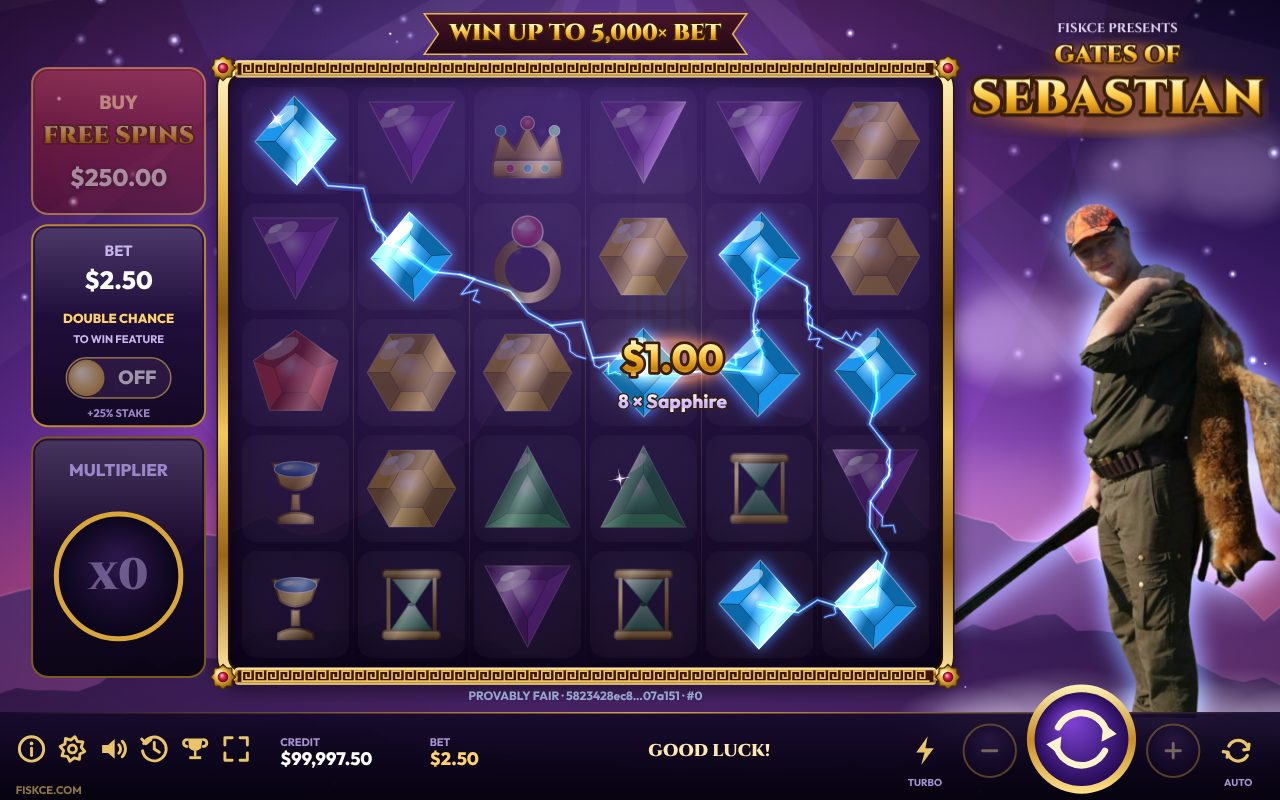
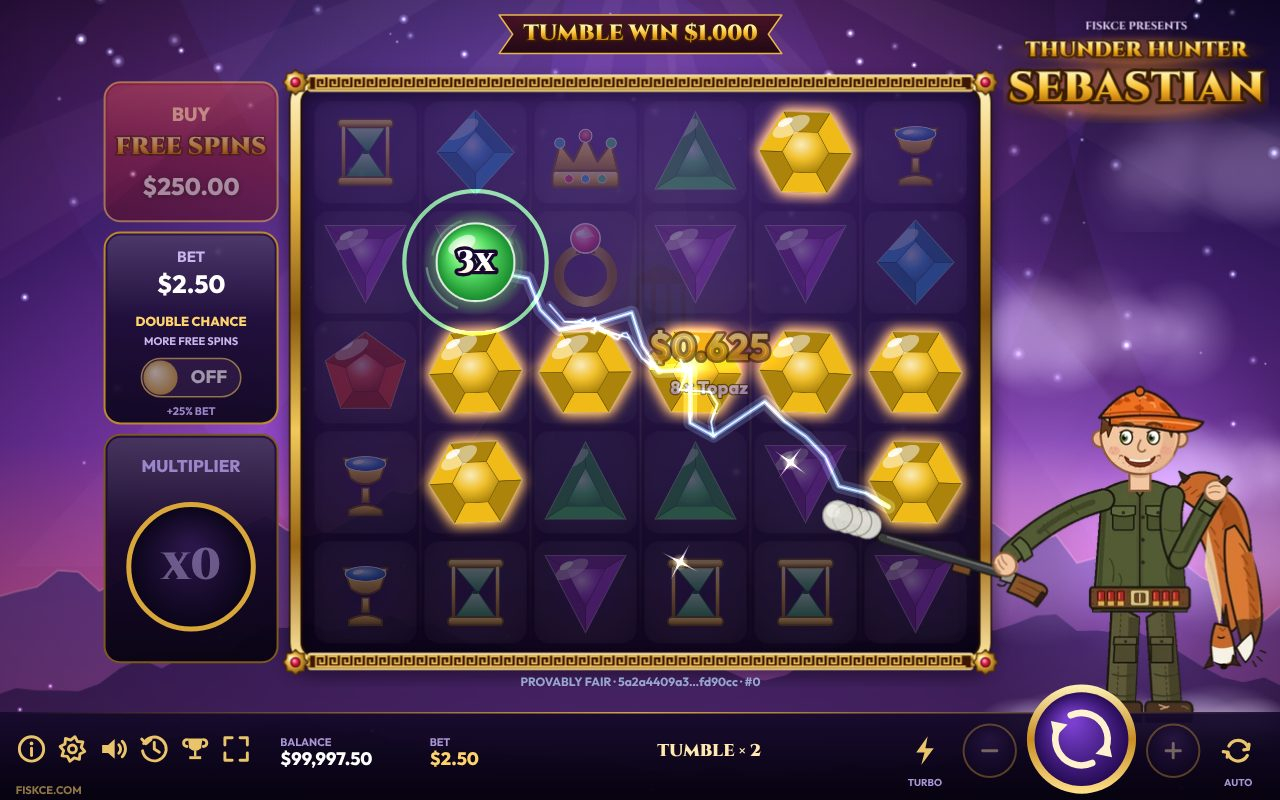
v9 polish: hidden controls stay hidden, short-screen splash and cards, replay card closes while playing
- [hidden] always wins over a button's own display rule (the demo's reset
  button showed in Stake play).
- 400x225: the splash keeps Sebastian beside the title instead of above
  it, and cards tighten so the replay button needs no scrolling.
- Play replay closes the replay card before the round plays.
- Counting animations use the decimals of the amount they count to.
- Unit tests: social wording has no restricted words; the published math
  (index, lookup tables, a sample of books) matches the engine and rules.
- README for v9, new screenshots with the new Sebastian, manifest renamed.

Claude-Session: https://claude.ai/code/session_01WQkQSFSCuMsctKqrKr77hZ

diff --git a/tools/test.js b/tools/test.js
@@ -142,6 +142,52 @@ ok('a tampered book event is rejected', () => {
   ];
   for (const f of bad) { const e = JSON.parse(JSON.stringify(good)); f(e); assert.throws(() => E.expandSpin(e, 3)); }
 });
+// ---- Stake: wording and the published math ----
+function loadStrings(search) {
+  const vm = require('vm'), fs = require('fs');
+  const sandbox = { window: {}, location: { search }, URLSearchParams, document: { documentElement: { classList: { toggle() {} } }, querySelectorAll: () => [] } };
+  vm.runInNewContext(fs.readFileSync(path.join(__dirname, '..', 'js', 'strings.js'), 'utf8'), sandbox);
+  return sandbox.window.GOS_STR;
+}
+ok('social casino wording has none of the restricted words', () => {
+  const STR = loadStrings('?social=true');
+  assert.ok(STR.social);
+  const src = require('fs').readFileSync(path.join(__dirname, '..', 'js', 'strings.js'), 'utf8');
+  const keys = [...src.matchAll(/^\s{4}(\w+):/gm)].map(m => m[1]).concat([...src.matchAll(/,\s(\w+):\s[\['\x27]/g)].map(m => m[1]));
+  const re = new RegExp('\\b(' + STR.RESTRICTED.filter(w => !w.includes(' ')).join('|') + ')\\b|win feature', 'i');
+  for (const k of new Set(keys)) {
+    const t = STR.T(k, { v: '1.00 SC', a: 1, b: 2, n: 3, x: '5,000×' }).replace(/<[^>]+>/g, '');
+    assert.ok(!re.test(t), `social "${k}": ${t}`);
+  }
+  assert.ok(loadStrings('?currency=XSC').social, 'a social currency turns social wording on');
+  assert.ok(!loadStrings('').social);
+});
+ok('the published Stake math matches the engine and the rules', () => {
+  const fs = require('fs'), zlib = require('zlib'), dir = path.join(__dirname, '..', 'math');
+  if (!fs.existsSync(path.join(dir, 'index.json'))) { console.log('      (no math/ export; skipped)'); return; }
+  const index = JSON.parse(fs.readFileSync(path.join(dir, 'index.json'), 'utf8'));
+  const cost = { base: 1, ante: E.ANTE_COST, bonus: E.BUY_COST_X };
+  const info = (() => { const w = {}; require('vm').runInNewContext(fs.readFileSync(path.join(__dirname, '..', 'js', 'math-info.js'), 'utf8'), { window: w }); return w.GOS_MATH; })();
+  assert.deepStrictEqual(index.modes.map(m => m.name).sort(), ['ante', 'base', 'bonus']);
+  for (const m of index.modes) {
+    assert.strictEqual(m.cost, cost[m.name], m.name + ' cost');
+    let W = 0n, P = 0n, max = 0;
+    for (const line of fs.readFileSync(path.join(dir, m.weights), 'utf8').trim().split('\n')) {
+      const [, w, pm] = line.split(',').map(BigInt); W += w; P += w * pm; if (Number(pm) > max) max = Number(pm);
+    }
+    const rtp = Number((P * 100000000n) / (W * BigInt(Math.round(m.cost * 100)))) / 1e6;     // percent
+    assert.ok(Math.abs(rtp - 96.5) < 0.001, m.name + ' RTP ' + rtp);
+    assert.strictEqual(max, E.MAX_WIN_X * 100, m.name + ' max win');
+    assert.strictEqual(info.modes[m.name].rtp, 96.5); assert.strictEqual(info.modes[m.name].cost, m.cost);
+    // a sample of books replays through the engine and adds up
+    const lines = zlib.zstdDecompressSync(fs.readFileSync(path.join(dir, m.events))).toString().trim().split('\n');
+    for (let i = 0; i < lines.length; i += Math.max(1, Math.floor(lines.length / 400))) {
+      const b = JSON.parse(lines[i]); let persistent = 0, sum = 0;
+      for (const e of b.events) if (e.type === 'spin') { const o = E.expandSpin(e, e.mode === 'fs' ? persistent : 0); if (e.mode === 'fs') persistent = o.ev.persistentAfter; sum += e.win; }
+      assert.strictEqual(sum, b.payoutMultiplier, m.name + ' book ' + b.id);
+    }
+  }
+});
 ok('every asset the game loads exists and is precached by the service worker', () => {
   const fs = require('fs'), root = path.join(__dirname, '..');
   const read = f => fs.readFileSync(path.join(root, f), 'utf8');

diff --git a/css/style.css b/css/style.css
@@ -38,6 +38,9 @@ body { font-family: var(--ui); color: var(--text); -webkit-tap-highlight-color: 
 .title-sm { font-size: clamp(20px, 4vw, 40px); letter-spacing: .12em; }
 .title { font-size: clamp(36px, 8.5vw, 92px); letter-spacing: .04em; }
 
+/* the hidden attribute always wins (buttons here set their own display) */
+[hidden] { display: none !important; }
+
 /* ---------- "Only on Stake" preroll (above everything while it plays) ---------- */
 /* the clip covers the screen when the text stays in view; otherwise (narrow
    screens) a blurred live copy of it fills around it. preroll.js sizes it. */
@@ -81,7 +84,7 @@ body { font-family: var(--ui); color: var(--text); -webkit-tap-highlight-color: 
 #splash.show { opacity: 1; pointer-events: auto; }
 #splash.leaving { opacity: 0; pointer-events: none; transform: scale(1.04); transition: opacity .6s ease, transform .6s ease; }
 .splash-inner { display: flex; align-items: center; gap: clamp(8px, 3vw, 40px); max-width: 1100px; width: 100%; }
-.splash-seb { height: min(72vh, 620px); width: auto; flex: none; filter: drop-shadow(0 0 22px rgba(127, 212, 255, .55)); animation: float 4s ease-in-out infinite; }
+.splash-seb { height: min(72vh, 560px); width: auto; flex: none; filter: drop-shadow(0 0 22px rgba(127, 212, 255, .55)); animation: float 4s ease-in-out infinite; }
 .splash-copy { flex: 1; text-align: center; }
 .splash-copy h1 { margin: 6px 0 22px; }
 .features { display: grid; grid-template-columns: repeat(3, 1fr); gap: 12px; margin-bottom: 26px; }
@@ -209,8 +212,9 @@ table.history { width: 100%; border-collapse: collapse; font-size: 13px; }
 /* very short screens (Stake checks 400x225): the splash fits without scrolling */
 @media (max-height: 420px) and (min-aspect-ratio: 1/1) {
   #splash { overflow: hidden; align-items: center; padding: 6px 12px; }
+  .splash-inner { flex-direction: row; gap: 12px; }
   .features { display: none; }
-  .splash-seb { height: 80vh; }
+  .splash-seb { height: 76vh; }
   .presents { font-size: 10px; }
   .title-sm { font-size: clamp(12px, 6.5vh, 22px); }
   .title { font-size: clamp(22px, 14vh, 48px); }
@@ -219,6 +223,11 @@ table.history { width: 100%; border-collapse: collapse; font-size: 13px; }
   .fine { font-size: 10px; margin-top: 6px; }
   .card { padding: 12px 12px 10px; max-height: 94vh; }
   .card h2 { font-size: 17px; margin-bottom: 6px; }
+  .card p { font-size: 13px; margin: 4px 0; }
+  .facts { font-size: 12px; } .facts div { padding: 2px 0; }
+  .replay-facts { margin: 2px 0 6px; }
+  button.primary, button.ghost { margin-top: 8px; padding: 8px 12px; }
+  .btn-row button.primary, .btn-row button.ghost { margin-top: 6px; }
 }
 
 /* rules: modes with their RTP, the controls guide; the replay card */

diff --git a/js/game.js b/js/game.js
@@ -567,7 +567,7 @@
   let replayData = null;
   Game.startReplay = async () => {
     if (S.busy || !replayData) return;
-    G.UI.closeAll();
+    G.UI.closeAll(true);
     // a fresh board and fresh counters every time
     Object.assign(S, { inFS: false, fsLeft: 0, fsPlayed: 0, fsTotal: 0, fsAward: 0, persistent: 0, fsMilestone: 0, roundWin: 0,
       winDisplay: 0, tumbleWin: 0, tumbleShown: 0, spinMult: 0, moodTarget: 0 });

diff --git a/tools/build-sebastian.py b/tools/build-sebastian.py
@@ -63,13 +63,13 @@ def sheet(clip, name):
 
 def splash():
     size, fr = frames('sebastian_idle.gif')
-    # crop to the union of the idle frames, 320 px tall
+    # crop to the union of the idle frames, 480 px tall
     boxes = [img.getchannel('A').getbbox() for img, _ in fr]
     u = (min(b[0] for b in boxes), min(b[1] for b in boxes), max(b[2] for b in boxes), max(b[3] for b in boxes))
-    k = 320 / (u[3] - u[1])
-    imgs = [img.crop(u).resize((round((u[2] - u[0]) * k), 320), Image.LANCZOS) for img, _ in fr]
+    k = 480 / (u[3] - u[1])
+    imgs = [img.crop(u).resize((round((u[2] - u[0]) * k), 480), Image.LANCZOS) for img, _ in fr]
     imgs[0].save(os.path.join(ROOT, 'assets', 'sebastian', 'splash.webp'), 'WEBP', save_all=True, append_images=imgs[1:],
-                 duration=[d for _, d in fr], loop=0, quality=78, method=6)
+                 duration=[d for _, d in fr], loop=0, quality=72, method=6)
     print('splash: %d KB' % (os.path.getsize(os.path.join(ROOT, 'assets', 'sebastian', 'splash.webp')) // 1024))
 
 size, idle = sheet('idle', 'idle.webp')

diff --git a/README.md b/README.md
@@ -1,10 +1,15 @@
-# Gates of Sebastian ⚡
+# Thunder Hunter Sebastian ⚡
 
-A Gates of Olympus–style tumbling slot (v8). The game opens with the "Only on Stake" sting. Sebastian stands on a cloud above Olympus and fires multiplier orbs from his shotgun. Everything is drawn on a single HTML5 canvas, with no build step and no dependencies. It installs as an app and plays offline.
+A tumbling, pay-anywhere slot (v9, formerly *Gates of Sebastian*). Sebastian the hunter stands on a cloud, shotgun in one hand and his fox in the other, and fires multiplier orbs into the board. Everything is drawn on a single HTML5 canvas, with no build step and no dependencies.
+
+It runs two ways:
+
+- **Demo** (no URL parameters, as on fiskce.com): a local balance, outcomes from a provably-fair random stream, installable and playable offline.
+- **Stake Engine** (`?sessionID=…&rgs_url=…`): every round comes from Stake's RGS, played from the math files this repo exports. Bet replays work too (`?replay=true…`).
 
 ![Base game: lightning links a winning cluster](docs/base-game.jpg)
 ![Free spins: the storm grows with the multiplier](docs/free-spins.jpg)
-<img src="docs/phone.jpg" alt="Phone: Sebastian cuts in on a Mega Win" width="260">
+<img src="docs/phone.jpg" alt="Phone: Sebastian fires over the board" width="260">
 
 ## Play
 
@@ -16,28 +21,73 @@ python3 -m http.server 8000      # then visit http://localhost:8000
 
 Opening `index.html` straight from disk also works, but the browser then blocks the fonts and sound files, so you get fallback fonts and synthesized sound. Offline/install support also needs it to be served (https or localhost).
 
-**Controls:** Space or Enter spins. Press Space again, or tap the board, to hurry a spin. ↑/↓ change the bet, T toggles turbo, M mutes and I opens the rules. Taps skip win celebrations.
+**Controls:** Space or Enter spins (and presses PLAY on the splash). Press Space again, or tap the board, to hurry a spin. ↑/↓ change the bet, T toggles turbo, M mutes and I opens the rules. Taps skip win celebrations. The rules list every control.
 
-## What's new in v8
+## What's new in v9
+
+**Playable on Stake Engine** (`js/rgs.js`)
+- With `sessionID` and `rgs_url` in the URL the game signs in with `/wallet/authenticate` while it loads. The balance, currency, bet levels, default bet and jurisdiction flags all come from the RGS. If the RGS can't be reached it says so and stops; it never falls back to the demo.
+- A round is one `/wallet/play {sessionID, amount, mode}` (`base`, `ante` or `bonus`). Its book events are rebuilt by `Engine.expandSpin` and animated by exactly the same code as a demo spin. `/wallet/end-round` is sent only for a round that is still open, and is retried if it fails. `/wallet/play` is never retried: a lost answer may already have been charged.
+- An unfinished round (a closed tab, a dropped connection) is offered first on the next launch. It plays out at its original bet and is then closed.
+- The balance is checked before every round, autoplay and buy, and nothing is sent when it is too low. Saved bets and balances are ignored in Stake play; only settings are kept.
+- Jurisdiction flags hide autoplay, turbo, the buy feature, fullscreen, slam-stop and Space to spin, and a minimum round length is honoured.
+- **Replay** (`?replay=true&game=&version=&mode=&event=&amount=`) fetches `/bet/replay/…` and shows the mode, the bet and, for ante and bonus, the real cost. Then it plays the round and offers to play it again. No wallet calls, no balance.
+- **Social casino wording** (`social=true`, an XSC/XGC currency or the RGS's `socialCasino` flag): every visible string comes from `js/strings.js`, which has a neutral or social variant for bet, buy, credit, stake, pay and paytable.
+- **Currencies:** symbol and decimals per currency (USD, EUR, CAD, MXN, JPY with no decimals, SC/GC after the amount, and more). Sub-cent amounts show the digits they need.
+- **Rules** are built from the published math: RTP per mode, max win, how the cap ends a round, a guide to every control and the standard disclaimer. The odds claims are gone.
+- A **compact layout** for very short windows (Stake checks 400×225), and a splash that fits without scrolling.
+- No service worker, manifest, provably-fair panel, stats or "reset balance" in Stake or replay play.
+
+**Stake math files** (`tools/export-math.js`, output in `math/`)
+- Books are played by this repo's engine, so they are exactly what the demo plays: `index.json`, `lookUpTable_<mode>_0.csv` and `books_<mode>.jsonl.zst` for `base` (cost 1), `ante` (1.25) and `bonus` (100).
+- Books are sampled in buckets (0 / base-game win / free spins / max win) with their natural probabilities. Max-win rounds are found by search, so 5,000× is in every mode. Weights are then scaled so each mode's RTP is exactly **96.50%** (the scaling stays within 3% of natural). The exporter reads every file back from disk and checks ids, weights, payouts and every event against the engine.
+- `js/math-info.js` (generated) carries the RTP and max win the rules show.
+
+| Mode | Books | RTP | Hit rate | Max |
+|---|---|---|---|---|
+| base | 95,010 | 96.5000% | 26.2% | 5,000× |
+| ante | 95,006 | 96.5000% | 26.2% | 5,000× |
+| bonus | 30,020 | 96.5000% | 99.3% | 5,000× |
+
+```bash
+node tools/export-math.js                 # ~5 minutes on 4 cores, writes math/ and js/math-info.js
+node tools/export-math.js --scale 4       # 4x the books per bucket
+```
+
+**A local RGS for testing** (`tools/mock-rgs.js`): it serves the game and the books and implements the wallet and replay endpoints, with switches for bet levels, balances, forced books, injected errors and lost responses.
+
+```bash
+node tools/mock-rgs.js     # then open http://localhost:8125/?sessionID=demo1&rgs_url=localhost:8125
+```
+
+**New Sebastian.** He is now hand-drawn artwork with two animations (`art/sebastian_idle.gif`, `art/sebastian_shoot.gif`). In the idle loop he breathes, blinks and the fox sways. For every orb he raises the shotgun over the edge of the board, winks, and fires on the frame with the muzzle flash, so the bolt leaves the barrel. Then the smoke clears and he lowers the gun. `tools/build-sebastian.py` packs the clips into sprite sheets.
+
+**Also new**
+- The "Only on Stake" sting fills the screen (a blurred copy fills around it on narrow screens). It plays with sound, and when the browser blocks sound it waits behind TAP TO START. It is skipped offline, in replays and in social play.
+- New soundtracks for the base game and free spins, looped on the hit each file ends with. Free spins crossfade to their own track.
+- No camera zoom when rolling into a feature.
+- Renamed **Thunder Hunter Sebastian**, with local favicons.
+
+## v8
 
 Presentation only: the payout math is byte-for-byte the v7 engine (`tools/test.js` pins it with a fingerprint of 5,000 spins).
 
 **A living board and camera**
 - Gems breathe: light sweeps across them, now and then one turns over in 3D, and a glint runs diagonally across every freshly landed board.
 - **Lightning chains** link every symbol of a winning cluster. When they shatter, their sparks **stream into the TUMBLE WIN plaque**, which counts up as each one lands.
-- During a scatter tease the **camera pushes in** on each held column, the world darkens and a heartbeat takes over the music.
+- During a scatter tease the world darkens and a heartbeat takes over the music (v8 also pushed the camera in; v9 dropped that).
 - **Slow motion** when a 100×+ orb lands and when the scatter that completes a trigger drops.
 - **Phone tilt** (opt-in in Settings): the board and sky shift against each other as you tilt your phone.
 
 **Sebastian comes alive**
-- He **turns to aim** at the cell before he fires, leans in during teases, wiggles his head on a near miss and **jumps** at every big-win tier.
-- On big wins he **slides in over the celebration**; in free spins his **eyes glow**.
+- He leans in during teases, wiggles his head on a near miss and **jumps** at every big-win tier.
+- On big wins he **slides in over the celebration**.
 - **Speech bubbles** ("Bullseye!", "Hold my fox…", "So close…"), rate-limited so he never nags. None of them suggest a win is due.
 
 **Bigger free spins**
 - The **storm grows with the total multiplier**: more lightning, a crimson sky, faster clouds, slanting rain and a low rumble.
 - **Milestones** at ×25, ×50, ×100, ×250 and ×500 total multiplier get their own headline, thunder and a quip.
-- **Adaptive music**: a drum layer under the soundtrack that is silent at rest, pulses while the reels spin, builds with every cascade and drives free spins.
+- **Adaptive music**: a heartbeat during teases and a storm rumble in free spins under the soundtrack.
 
 **Polish and reach**
 - **Installable and offline** (PWA): add it to a home screen and it runs without a connection.
@@ -99,42 +149,55 @@ Each spin draws its randomness from `HMAC-SHA256(serverSeed, "clientSeed:nonce:c
 - **Tumble:** winners are removed, the rest fall and new symbols drop in. This repeats while wins keep forming.
 - **Multiplier orbs:** 2, 3, 4, 5, 6, 8, 10, 25, 50, 100, 250 or 500×. In the base game, the orbs from one spin add up and multiply that spin.
 - **Free spins:** 4+ scatters award 15 spins. Every orb is saved into a total multiplier that applies to each winning spin. 3+ scatters in the feature add +5.
-- **Double Chance:** +25% stake for 1.74× the natural trigger rate. **Buy:** 100× bet, with ante off.
+- **Double Chance:** costs 1.25× the bet; free spins trigger more often. **Buy:** 100× bet, with ante off.
+- **Max win:** 5,000× the bet per round; reaching it ends the round, free spins included.
+- Scatters are counted once all tumbles have finished and don't win on their own.
 
 ## Customising
 
 | What | Where |
 |---|---|
 | Symbol art | Replace PNGs in `assets/symbols/` (keep the names), or edit `SYMBOL_IMAGES` in `js/board.js`. Use `''` for the built-in vector gem. |
-| Sebastian | Replace `assets/sebastian.png` with a tall image on a transparent background. It's auto-cropped, and the bolts fire from the left-most opaque pixel, his gun barrel. The eye and head anchors (`EYES`, `HEAD` in `js/sebastian.js`) are measured on the original photo; with a different-sized image the eye glow switches itself off. |
+| Sebastian | Replace `art/sebastian_idle.gif` / `art/sebastian_shoot.gif` (930×825, transparent, feet on the same line) and run `python3 tools/build-sebastian.py` (needs Pillow). The barrel-tip table `TIP` and the frame numbers for aim/fire in `js/sebastian.js` are measured on the current shoot clip. |
+| Wording | `js/strings.js`: every player-visible string, with its social-casino variant. |
+| Currencies | `CURRENCIES` in `js/core.js`. |
 | Quips | `LINES` in `js/sebastian.js`. |
 | Achievements | `ACH` in `js/stats.js`. |
 | Offline cache | `CORE` in `sw.js`; bump `VERSION` on every release. `node tools/test.js` fails if a file the game loads is missing from it. |
 | Sounds | `SOUND_FILES` in `js/audio.js`. Leave `''` to use the synthesized sound. Every other effect is synthesized. |
-| Math | `CONFIG` in `js/engine.js`. Re-run `node tools/sim.js` after any change. |
+| Math | `CONFIG` in `js/engine.js`. Re-run `node tools/sim.js` after any change, then `node tools/export-math.js` for Stake. |
 
 ## Files
 
 | File | Purpose |
 |---|---|
-| `js/engine.js` | Pure game math (no DOM): board, tumbles, orbs, evaluate, feature, round. Runs in Node too. |
+| `js/engine.js` | Pure game math (no DOM): board, tumbles, orbs, evaluate, feature, round; book events and `expandSpin`. Runs in Node too. |
+| `js/rgs.js` | Stake Engine: launch parameters, wallet calls, bet levels, jurisdiction flags, replay, book-event spin source |
+| `js/strings.js` | Player-facing wording, normal and social casino |
+| `js/math-info.js` | Generated: RTP and max win per mode, for the rules |
+| `js/seb-frames.js` | Generated: Sebastian's frames in the sprite sheets |
+| `js/preroll.js` | The "Only on Stake" sting: fill, sound, tap to start |
 | `js/fair.js` | Provably-fair commit/reveal RNG with a built-in SHA-256 and HMAC |
 | `js/core.js` | Namespace, game clock (turbo, slow-mo), adaptive quality, easing, formatting, persistence, responsive layout |
 | `js/scene.js` | The world behind the board, in two moods |
 | `js/board.js` | Sprites, tumble physics, frame, anticipation columns, orbs |
 | `js/fx.js` | Particles, lightning, floating text; camera shake, zoom, push-in, tilt; flash limiter |
-| `js/sebastian.js` | Sebastian: pose (aim, lean, jump, recoil), eye glow, speech bubbles, big-win cut-in |
+| `js/sebastian.js` | Sebastian: idle and shoot clips, aim and fire timing, lean, jump, speech bubbles, big-win cut-in |
 | `js/hud.js` | Side panels, logo, plaque, bottom bar, vector icons, hit regions |
 | `js/overlays.js` | Big win, free-spins intro and outro, banners, milestones, multiplier slam |
 | `js/stats.js` | Session and all-time stats, achievements, toasts |
 | `js/game.js` | Spin orchestration, camera, input, render loop, boot, service-worker registration |
 | `js/ui.js` | DOM panels: rules and paytable, settings, fairness and history, stats, buy, menu |
 | `js/audio.js` | Web Audio engine: files plus synth, pitch, ducking, suspense filter |
-| `js/music.js` | Adaptive drum layer and heartbeat under the soundtrack |
+| `js/music.js` | Heartbeat and storm rumble under the soundtrack (a drum layer over the synth fallback) |
 | `sw.js`, `manifest.json` | Offline cache and install metadata |
 | `tools/sim.js` | Multi-threaded RTP simulator |
-| `tools/test.js` | Crypto, determinism, engine invariants, math fingerprint, offline-cache coverage |
+| `tools/test.js` | Crypto, determinism, engine invariants, math fingerprint, book events round-trip, offline-cache coverage |
+| `tools/export-math.js` | Stake Engine math files (books, lookup tables, index) |
+| `tools/mock-rgs.js` | Local stand-in for Stake's RGS, serving the game and the books |
+| `tools/build-sebastian.py` | Sebastian's sprite sheets from `art/` |
+| `math/` | The exported Stake math files |
 
-> For entertainment only. Demo credits, no real-money gambling.
+> The demo is for entertainment only: demo credits, no real-money gambling. Played through Stake Engine, the operator's terms apply.
 
 Fonts: Cinzel and Outfit, SIL Open Font License (`assets/fonts/OFL.txt`). Code: GPL-3.0 (`LICENSE`).
